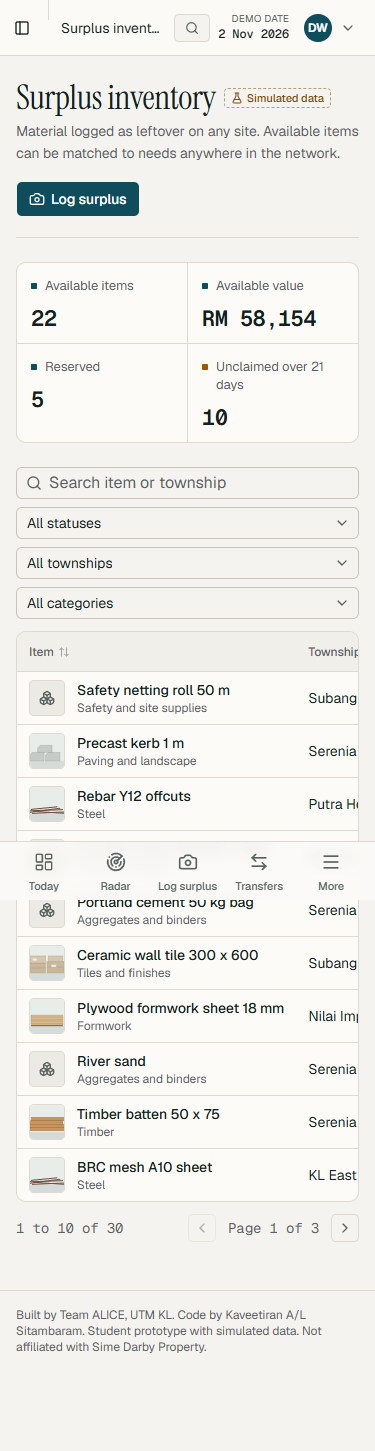
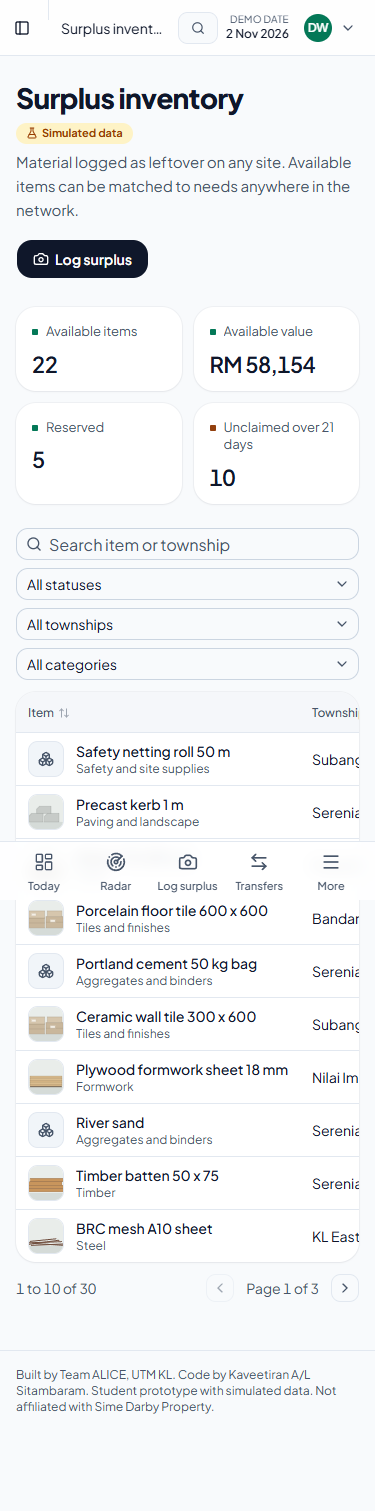
After screenshots and design docs for style A

diff --git a/README.md b/README.md
@@ -115,7 +115,7 @@ The landing page visual, Radar, Guided Demo and unit tests all compute these fro
 
 ## How it is built
 
-- Next.js 15 (App Router), TypeScript, Tailwind CSS v4, shadcn/ui on Radix, lucide-react, Recharts, TanStack Table, sonner, cmdk, zod. Type: Instrument Serif for headlines, Geist for the interface and Geist Mono for numbers, all via next/font.
+- Next.js 15 (App Router), TypeScript, Tailwind CSS v4, shadcn/ui on Radix, lucide-react, Recharts, TanStack Table, sonner, cmdk, zod. Type: Plus Jakarta Sans via next/font.
 - No database. Seed data in `src/data/seed.ts`; state in the browser's localStorage, with **Reset demo data** in the user menu and on the Assumptions page.
 - Distances use the haversine formula on approximate coordinates. No map API.
 - Key folders: `src/lib/engine` (pure logic and tests), `src/lib/assumptions.ts` (every number, tagged ASSUMPTION with a source to confirm), `src/app/app/*` (app screens), `src/components/radar` (timeline and Pre-Order Check).
@@ -130,7 +130,7 @@ The landing page visual, Radar, Guided Demo and unit tests all compute these fro
 
 ## Design
 
-The interface follows one direction, "site plan meets control room": warm paper, ink lines and one accent per meaning (teal for action, amber for forecasts, green for confirmed, red for risk). See [docs/DESIGN_DIRECTION.md](docs/DESIGN_DIRECTION.md) and the audit with before and after notes in [docs/DESIGN_AUDIT.md](docs/DESIGN_AUDIT.md). Screenshots are in `screenshots/before` and `screenshots/after`.
+The interface uses style A, "Fresh": a white and slate palette with an emerald to sky accent, Plus Jakarta Sans, soft cards and light animation. It was chosen by the project owner from three mockups and approved page by page. See [docs/DESIGN_DIRECTION.md](docs/DESIGN_DIRECTION.md) and [docs/DESIGN_AUDIT.md](docs/DESIGN_AUDIT.md). Screenshots are in `screenshots/before` and `screenshots/after`.
 
 ## Limits
 
